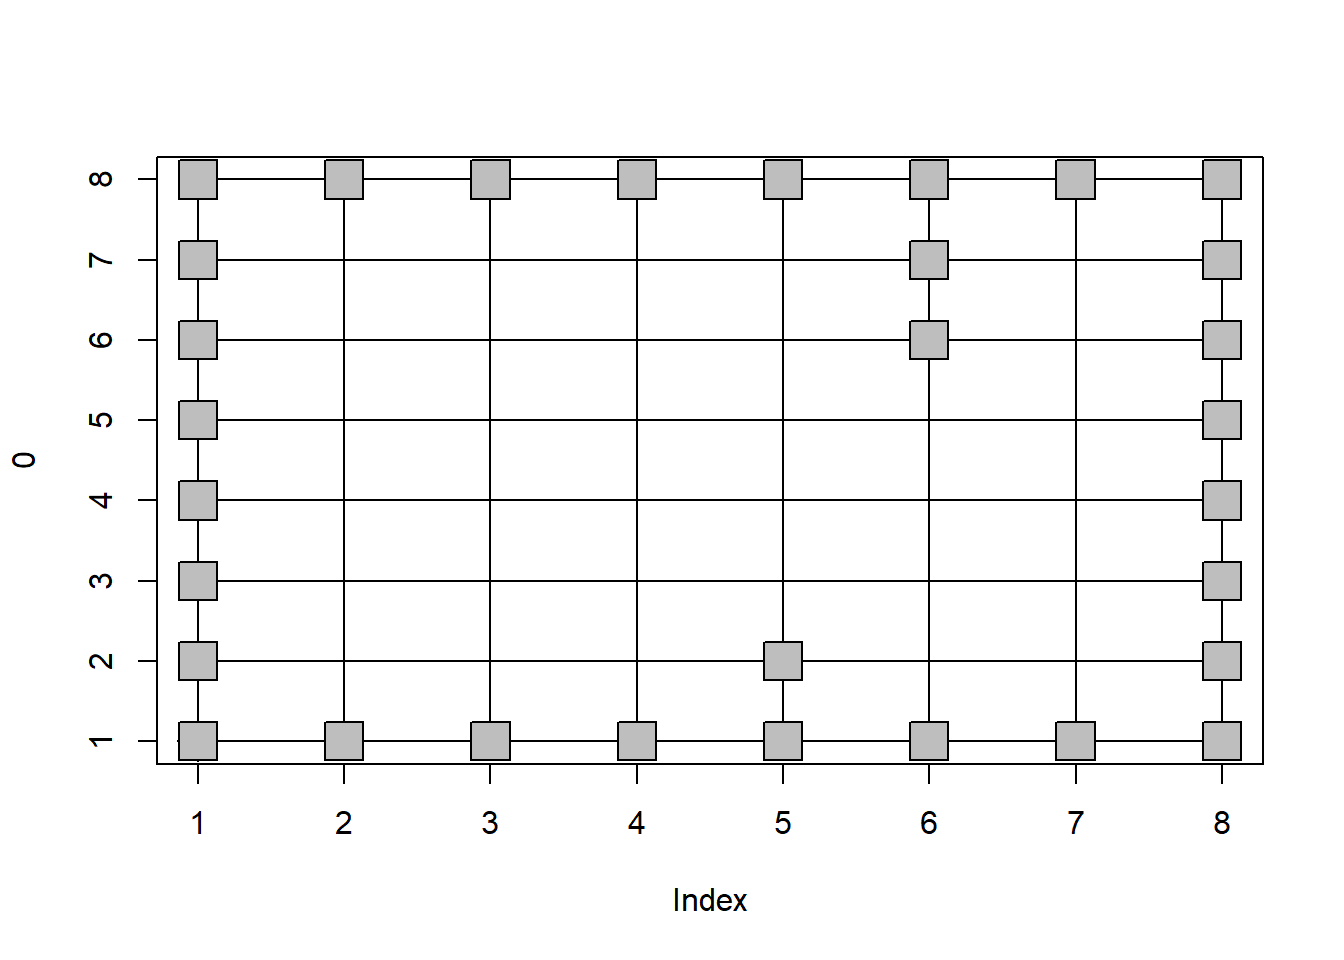
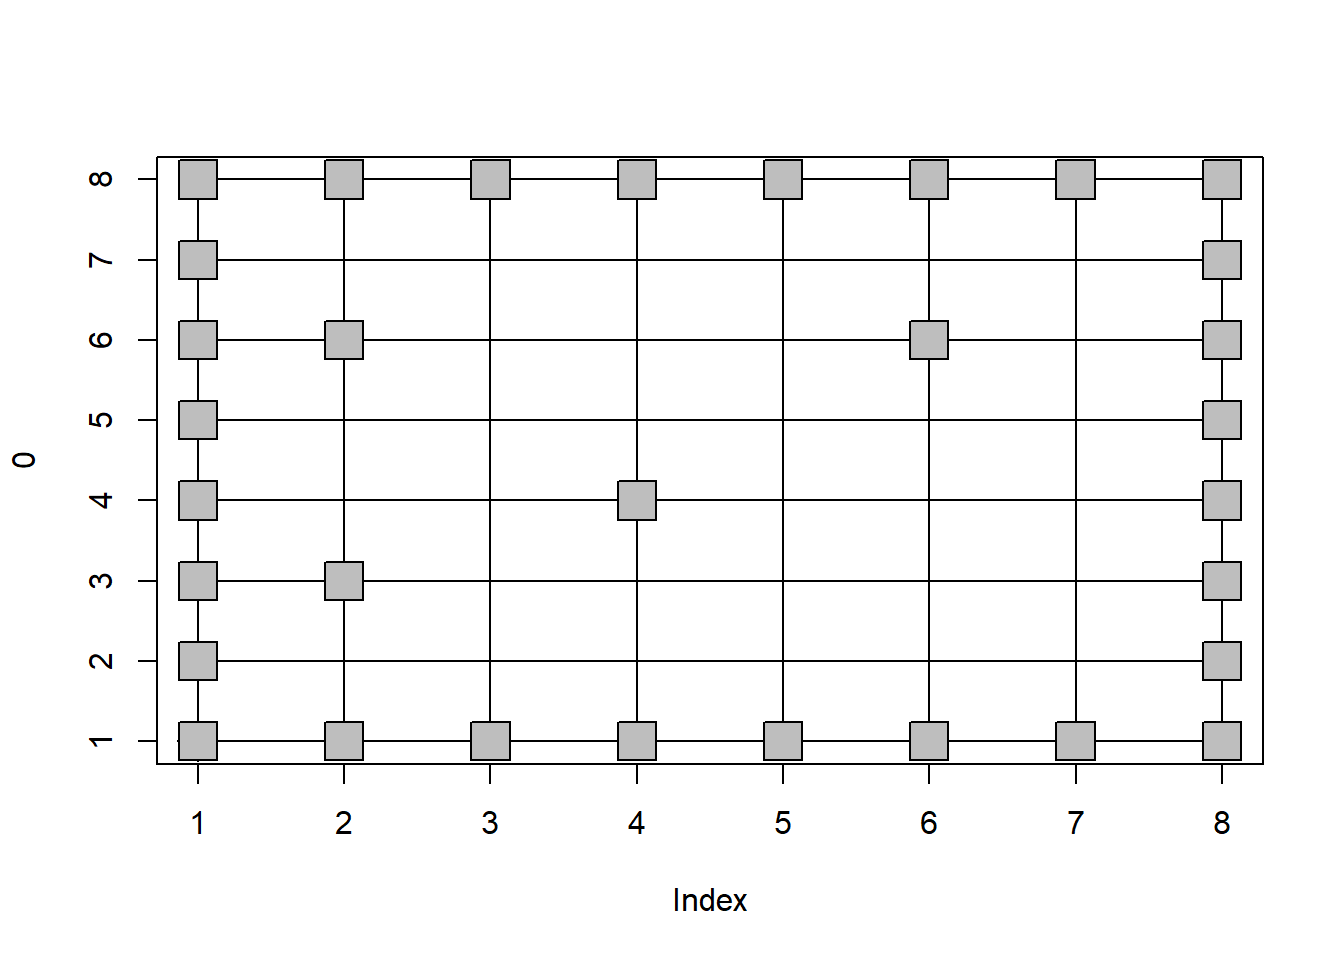
update

diff --git a/docs/lecture-07-ggplot-data-transformation.html b/docs/lecture-07-ggplot-data-transformation.html
@@ -5,11 +5,11 @@
 
   <meta charset="UTF-8">
   <meta http-equiv="X-UA-Compatible" content="IE=edge">
-  <title>[2019 UST 일반강의] R 프로그래밍과 데이터 분석</title>
+  <title>8 Lecture 07 - ggplot / data transformation | [2019 UST 일반강의] R 프로그래밍과 데이터 분석</title>
   <meta name="description" content="2019년 UST 강의 R 프로그래밍 웹사이트">
   <meta name="generator" content="bookdown  and GitBook 2.6.7">
 
-  <meta property="og:title" content="[2019 UST 일반강의] R 프로그래밍과 데이터 분석" />
+  <meta property="og:title" content="8 Lecture 07 - ggplot / data transformation | [2019 UST 일반강의] R 프로그래밍과 데이터 분석" />
   <meta property="og:type" content="book" />
   
   
@@ -17,7 +17,7 @@
   <meta name="github-repo" content="https://greendaygh.github.io/Rprog2019/" />
 
   <meta name="twitter:card" content="summary" />
-  <meta name="twitter:title" content="[2019 UST 일반강의] R 프로그래밍과 데이터 분석" />
+  <meta name="twitter:title" content="8 Lecture 07 - ggplot / data transformation | [2019 UST 일반강의] R 프로그래밍과 데이터 분석" />
   
   <meta name="twitter:description" content="2019년 UST 강의 R 프로그래밍 웹사이트" />
   
@@ -32,8 +32,8 @@
   <meta name="apple-mobile-web-app-status-bar-style" content="black">
   
   
+<link rel="prev" href="lecture-06-multiple-plate-reader-ggplot.html">
 
-<link rel="next" href="lecture-01-r-introduction.html">
 <script src="libs/jquery-2.2.3/jquery.min.js"></script>
 <link href="libs/gitbook-2.6.7/css/style.css" rel="stylesheet" />
 <link href="libs/gitbook-2.6.7/css/plugin-table.css" rel="stylesheet" />
@@ -165,84 +165,22 @@ code > span.in { color: #60a0b0; font-weight: bold; font-style: italic; } /* Inf
           <div class="page-inner">
 
             <section class="normal" id="section-">
-<div id="header">
-<h1 class="title">[2019 UST 일반강의] R 프로그래밍과 데이터 분석</h1>
-<p class="author"><em>Haseong Kim</em></p>
-<p class="date"><em>2019-04-17</em></p>
-</div>
-<div id="lecture-" class="section level1">
-<h1><span class="header-section-number">1</span> Lecture 개요</h1>
-<ul>
-<li>장소: 한국생명공학연구원 연구동 세미나실 1213호 (매주수요일 13:00~16:00)</li>
-<li>강사: 한국생명공학연구원 바이오합성연구센터 김하성</li>
-<li>연락처: 042-860-4372, <a href="mailto:haseong@kribb.re.kr">haseong@kribb.re.kr</a> (생명연 연구동 1143)</li>
-<li>homepage: <a href="https://greendaygh.github.io/Rprog2019/" class="uri">https://greendaygh.github.io/Rprog2019/</a> <a href="https://github.com/greendaygh/Rprog2019" class="uri">https://github.com/greendaygh/Rprog2019</a></li>
-</ul>
-<div id="goal--" class="section level2">
-<h2><span class="header-section-number">1.1</span> Goal 강의 목표</h2>
-<ul>
-<li>이공계열 대학원생이 통계 분석용 범용 프로그램 언어인 R의 사용법을 익히고 이를 이용한 프로그래밍 기술의 습득을 주요 목적으로 함. 생물 데이터 위주의 분석 예제를 통해 R의 활용 기술을 배움.</li>
-<li>이 강좌는 오프라인 강의를 기본으로 함. R 사용에 대한 기본 개념과 프로그래밍을 중심으로 필요시 기초 통계지식 강의. 실습 데이터로는 주로 생물데이터를 사용함. 모든 강의 시간 실습을 위한 개인 노트북 지참 필수. 강의 자료는 pdf로 제작하여 수업 진행과 관련된 정보와 함께 웹사이트를 통해 배포됨. 상황에 따라 강의 일정이 조정될 수 있음.</li>
-</ul>
-</div>
-<div id="references--" class="section level2">
-<h2><span class="header-section-number">1.2</span> References 참고 자료</h2>
-<ul>
-<li>R for Data Science (<a href="https://r4ds.had.co.nz" class="uri">https://r4ds.had.co.nz</a>, <a href="https://github.com/hadley" class="uri">https://github.com/hadley</a>)</li>
-<li>Using R for Introductory Statistics by John Verzani</li>
-<li>Free version of 1st Edition
-<ul>
-<li><a href="https://cran.r-project.org/doc/contrib/Verzani-SimpleR.pdf" class="uri">https://cran.r-project.org/doc/contrib/Verzani-SimpleR.pdf</a></li>
-<li><a href="http://cbb.sjtu.edu.cn/~mywu/bi217/usingR.pdf" class="uri">http://cbb.sjtu.edu.cn/~mywu/bi217/usingR.pdf</a></li>
-</ul></li>
-<li>Second edition
-<ul>
-<li><a href="https://www.crcpress.com/Using-R-for-Introductory-Statistics-Second-Edition/Verzani/p/book/9781466590731" class="uri">https://www.crcpress.com/Using-R-for-Introductory-Statistics-Second-Edition/Verzani/p/book/9781466590731</a></li>
-</ul></li>
-<li>Bioinformatics Data Skills by Vince Buffalo</li>
-<li><a href="https://resources.rstudio.com/" class="uri">https://resources.rstudio.com/</a></li>
-<li>일반통계학 (영지문화사, 김우철 외)</li>
-</ul>
-</div>
-<div id="evaluation---" class="section level2">
-<h2><span class="header-section-number">1.3</span> Evaluation 평가 세부 항목</h2>
-<ul>
-<li>출석 50% / 과제 50% / 수업참여 +alpha</li>
-</ul>
-</div>
-<div id="schedule--" class="section level2">
-<h2><span class="header-section-number">1.4</span> Schedule 강의 계획</h2>
-<ul>
-<li>Introduction and installation of R/Rstudio</li>
-<li>R language basics</li>
-<li>Data manipulation</li>
-<li>Visualizing data in R</li>
-<li>Shiny for interactive applications in R</li>
-<li>Workflows with R scripts</li>
-<li>Working with Range Data</li>
-<li>Sequence analysis</li>
-<li>Clustering and significance testing with genomic data</li>
-</ul>
-</div>
-<div id="lecture-note--" class="section level2">
-<h2><span class="header-section-number">1.5</span> Lecture note 강의 자료</h2>
-<ul>
-<li><p>1 (2019.03.06) - <a href="https://github.com/greendaygh/2019-R-programming/blob/master/01-Rprog.pdf">Introduction and installation of R/Rstudio, Basics of variables and functions</a></p></li>
-<li><p>2 (2019.03.13) - <a href="https://github.com/greendaygh/2019-R-programming/blob/master/02-Rprog.pdf">R Basics - Objects (vector, factor, matrix) and functions</a> 다음 시간 readxl, Biostrings 두 패키지 미리 설치한 후 강의 참석 부탁드립니다.</p></li>
-<li><p>3 (2019.03.20) - <a href="https://github.com/greendaygh/2019-R-programming/blob/master/03-Rprog.pdf">R Basics II - file I/O</a> 강의가 좀 빠르게 진행된 듯 합니다. 기본으로 제공되는 R 기능을 사용하기 보다는 함수나 프로그래밍 코딩 원리를 이해하기 위해 직접 함수를 만들어보는 연습을 하고 있으니 참고 하시고 다음 시간 전에 이번 시간 코드 복습하시고 오시면 도움이 되실 것 같습니다.</p></li>
-<li><p>4 (2019.03.27) - <a href="https://github.com/greendaygh/2019-R-programming/blob/master/04-Rprog.pdf">R programming example - Maze Robot</a></p></li>
-<li><p>5 (2019.04.03) - <a href="https://github.com/greendaygh/2019-R-programming/blob/master/05-Rprog.pdf">R programming example - Plate reader</a></p></li>
-</ul>
+<div id="lecture-07---ggplot-data-transformation" class="section level1">
+<h1><span class="header-section-number">8</span> Lecture 07 - ggplot / data transformation</h1>
+<p>실습용 엑셀파일 중 지난시간 오류가 있었던 design excel 파일 다시 다운로드 받아 주세요 <a href="https://github.com/greendaygh/Rprog2019/blob/master/exp_design2.xlsx">design excel file 2</a></p>
+<p>수업 전 다음 패키지 설치가 필요합니다. 인터넷 연결된 상태에서 R studio 콘솔창에 다음을 입력하세요</p>
+<div class="sourceCode"><pre class="sourceCode r"><code class="sourceCode r"><span class="kw">install.packages</span>(<span class="st">&quot;ggplot2&quot;</span>)
+<span class="kw">install.packages</span>(<span class="st">&quot;dplyr&quot;</span>)</code></pre></div>
+<p>강의 노트 (수업 후 업데이트 예정) <a href="https://github.com/greendaygh/2019-R-programming/blob/master/07-Rprog.pdf">Lecture note</a></p>
 
-</div>
 </div>
             </section>
 
           </div>
         </div>
       </div>
+<a href="lecture-06-multiple-plate-reader-ggplot.html" class="navigation navigation-prev navigation-unique" aria-label="Previous page"><i class="fa fa-angle-left"></i></a>
 
-<a href="lecture-01-r-introduction.html" class="navigation navigation-next navigation-unique" aria-label="Next page"><i class="fa fa-angle-right"></i></a>
     </div>
   </div>
 <script src="libs/gitbook-2.6.7/js/app.min.js"></script>

diff --git a/docs/lecture-04-maze-robot.html b/docs/lecture-04-maze-robot.html
@@ -147,6 +147,7 @@ code > span.in { color: #60a0b0; font-weight: bold; font-style: italic; } /* Inf
 <li class="chapter" data-level="7.3" data-path="lecture-06-multiple-plate-reader-ggplot.html"><a href="lecture-06-multiple-plate-reader-ggplot.html#read-data"><i class="fa fa-check"></i><b>7.3</b> Read data</a></li>
 <li class="chapter" data-level="7.4" data-path="lecture-06-multiple-plate-reader-ggplot.html"><a href="lecture-06-multiple-plate-reader-ggplot.html#ggplot--barplot-"><i class="fa fa-check"></i><b>7.4</b> ggplot 이용 barplot 그리기</a></li>
 </ul></li>
+<li class="chapter" data-level="8" data-path="lecture-07-ggplot-data-transformation.html"><a href="lecture-07-ggplot-data-transformation.html"><i class="fa fa-check"></i><b>8</b> Lecture 07 - ggplot / data transformation</a></li>
 </ul>
 
       </nav>
@@ -261,12 +262,12 @@ maze[,n] &lt;-<span class="st"> </span><span class="dv">1</span></code></pre></d
 maze</code></pre></div>
 <pre><code>##      [,1] [,2] [,3] [,4] [,5] [,6] [,7] [,8]
 ## [1,]    1    1    1    1    1    1    1    1
-## [2,]    1    0    0    0    1    0    0    1
-## [3,]    1    0    0    0    0    0    0    1
-## [4,]    1    0    0    1    1    0    0    1
-## [5,]    1    0    0    0    0    1    0    1
-## [6,]    1    0    0    0    0    0    1    1
-## [7,]    1    0    0    0    1    0    0    1
+## [2,]    1    0    0    0    0    0    0    1
+## [3,]    1    0    0    0    1    1    0    1
+## [4,]    1    0    0    0    0    0    1    1
+## [5,]    1    0    0    1    0    0    0    1
+## [6,]    1    0    1    0    0    0    0    1
+## [7,]    1    0    0    0    0    0    0    1
 ## [8,]    1    1    1    1    1    1    1    1</code></pre>
 <p>이제 위 코드를 활용해서 maze matrix 맵을 만드는 함수인 generate_maze 를 작성해 봅니다. 입력 파라메터는 n 하나로 가로 또는 세로의 (정사각형) 갯수를 의미합니다.</p>
 <div class="sourceCode"><pre class="sourceCode r"><code class="sourceCode r">generate_maze &lt;-<span class="st"> </span><span class="cf">function</span>(n){
@@ -284,11 +285,11 @@ mymaze &lt;-<span class="st"> </span><span class="kw">generate_maze</span>(<span
 mymaze</code></pre></div>
 <pre><code>##      [,1] [,2] [,3] [,4] [,5] [,6] [,7] [,8]
 ## [1,]    1    1    1    1    1    1    1    1
-## [2,]    1    0    0    0    0    0    0    1
+## [2,]    1    0    1    0    0    1    0    1
 ## [3,]    1    0    0    0    0    0    0    1
-## [4,]    1    0    0    0    0    0    0    1
-## [5,]    1    1    0    0    0    0    0    1
-## [6,]    1    0    0    0    0    1    1    1
+## [4,]    1    0    0    1    0    0    0    1
+## [5,]    1    0    0    0    0    0    0    1
+## [6,]    1    0    0    0    0    1    0    1
 ## [7,]    1    0    0    0    0    0    0    1
 ## [8,]    1    1    1    1    1    1    1    1</code></pre>
 </div>

diff --git a/docs/lecture-06-multiple-plate-reader-ggplot.html b/docs/lecture-06-multiple-plate-reader-ggplot.html
@@ -33,7 +33,7 @@
   
   
 <link rel="prev" href="lecture-05-multiple-plate-reader-file.html">
-
+<link rel="next" href="lecture-07-ggplot-data-transformation.html">
 <script src="libs/jquery-2.2.3/jquery.min.js"></script>
 <link href="libs/gitbook-2.6.7/css/style.css" rel="stylesheet" />
 <link href="libs/gitbook-2.6.7/css/plugin-table.css" rel="stylesheet" />
@@ -147,6 +147,7 @@ code > span.in { color: #60a0b0; font-weight: bold; font-style: italic; } /* Inf
 <li class="chapter" data-level="7.3" data-path="lecture-06-multiple-plate-reader-ggplot.html"><a href="lecture-06-multiple-plate-reader-ggplot.html#read-data"><i class="fa fa-check"></i><b>7.3</b> Read data</a></li>
 <li class="chapter" data-level="7.4" data-path="lecture-06-multiple-plate-reader-ggplot.html"><a href="lecture-06-multiple-plate-reader-ggplot.html#ggplot--barplot-"><i class="fa fa-check"></i><b>7.4</b> ggplot 이용 barplot 그리기</a></li>
 </ul></li>
+<li class="chapter" data-level="8" data-path="lecture-07-ggplot-data-transformation.html"><a href="lecture-07-ggplot-data-transformation.html"><i class="fa fa-check"></i><b>8</b> Lecture 07 - ggplot / data transformation</a></li>
 </ul>
 
       </nav>
@@ -442,8 +443,8 @@ mydata2<span class="op">$</span>concentration &lt;-<span class="st"> </span><spa
           </div>
         </div>
       </div>
-<a href="lecture-05-multiple-plate-reader-file.html" class="navigation navigation-prev navigation-unique" aria-label="Previous page"><i class="fa fa-angle-left"></i></a>
-
+<a href="lecture-05-multiple-plate-reader-file.html" class="navigation navigation-prev " aria-label="Previous page"><i class="fa fa-angle-left"></i></a>
+<a href="lecture-07-ggplot-data-transformation.html" class="navigation navigation-next " aria-label="Next page"><i class="fa fa-angle-right"></i></a>
     </div>
   </div>
 <script src="libs/gitbook-2.6.7/js/app.min.js"></script>

diff --git a/docs/lecture-03-r-basics-ii.html b/docs/lecture-03-r-basics-ii.html
@@ -147,6 +147,7 @@ code > span.in { color: #60a0b0; font-weight: bold; font-style: italic; } /* Inf
 <li class="chapter" data-level="7.3" data-path="lecture-06-multiple-plate-reader-ggplot.html"><a href="lecture-06-multiple-plate-reader-ggplot.html#read-data"><i class="fa fa-check"></i><b>7.3</b> Read data</a></li>
 <li class="chapter" data-level="7.4" data-path="lecture-06-multiple-plate-reader-ggplot.html"><a href="lecture-06-multiple-plate-reader-ggplot.html#ggplot--barplot-"><i class="fa fa-check"></i><b>7.4</b> ggplot 이용 barplot 그리기</a></li>
 </ul></li>
+<li class="chapter" data-level="8" data-path="lecture-07-ggplot-data-transformation.html"><a href="lecture-07-ggplot-data-transformation.html"><i class="fa fa-check"></i><b>8</b> Lecture 07 - ggplot / data transformation</a></li>
 </ul>
 
       </nav>
@@ -319,9 +320,9 @@ mysd &lt;-<span class="st"> </span><span class="cf">function</span>(x){
 
 x &lt;-<span class="st"> </span><span class="kw">sample</span>(<span class="dv">1</span><span class="op">:</span><span class="dv">100</span>, <span class="dv">10</span>)
 <span class="kw">mysd</span>(x)</code></pre></div>
-<pre><code>## [1] 29.72765</code></pre>
+<pre><code>## [1] 27.67289</code></pre>
 <div class="sourceCode"><pre class="sourceCode r"><code class="sourceCode r"><span class="kw">sd</span>(x)</code></pre></div>
-<pre><code>## [1] 29.72765</code></pre>
+<pre><code>## [1] 27.67289</code></pre>
 </div>
 <div id="exercise-3-3-barplot-with-error-bars" class="section level2">
 <h2><span class="header-section-number">4.7</span> Exercise 3-3 barplot with error bars</h2>

diff --git a/docs/lecture-01-r-introduction.html b/docs/lecture-01-r-introduction.html
@@ -147,6 +147,7 @@ code > span.in { color: #60a0b0; font-weight: bold; font-style: italic; } /* Inf
 <li class="chapter" data-level="7.3" data-path="lecture-06-multiple-plate-reader-ggplot.html"><a href="lecture-06-multiple-plate-reader-ggplot.html#read-data"><i class="fa fa-check"></i><b>7.3</b> Read data</a></li>
 <li class="chapter" data-level="7.4" data-path="lecture-06-multiple-plate-reader-ggplot.html"><a href="lecture-06-multiple-plate-reader-ggplot.html#ggplot--barplot-"><i class="fa fa-check"></i><b>7.4</b> ggplot 이용 barplot 그리기</a></li>
 </ul></li>
+<li class="chapter" data-level="8" data-path="lecture-07-ggplot-data-transformation.html"><a href="lecture-07-ggplot-data-transformation.html"><i class="fa fa-check"></i><b>8</b> Lecture 07 - ggplot / data transformation</a></li>
 </ul>
 
       </nav>

diff --git a/docs/lecture-02-r-basics-i.html b/docs/lecture-02-r-basics-i.html
@@ -147,6 +147,7 @@ code > span.in { color: #60a0b0; font-weight: bold; font-style: italic; } /* Inf
 <li class="chapter" data-level="7.3" data-path="lecture-06-multiple-plate-reader-ggplot.html"><a href="lecture-06-multiple-plate-reader-ggplot.html#read-data"><i class="fa fa-check"></i><b>7.3</b> Read data</a></li>
 <li class="chapter" data-level="7.4" data-path="lecture-06-multiple-plate-reader-ggplot.html"><a href="lecture-06-multiple-plate-reader-ggplot.html#ggplot--barplot-"><i class="fa fa-check"></i><b>7.4</b> ggplot 이용 barplot 그리기</a></li>
 </ul></li>
+<li class="chapter" data-level="8" data-path="lecture-07-ggplot-data-transformation.html"><a href="lecture-07-ggplot-data-transformation.html"><i class="fa fa-check"></i><b>8</b> Lecture 07 - ggplot / data transformation</a></li>
 </ul>
 
       </nav>

diff --git a/docs/lecture-05-multiple-plate-reader-file.html b/docs/lecture-05-multiple-plate-reader-file.html
@@ -147,6 +147,7 @@ code > span.in { color: #60a0b0; font-weight: bold; font-style: italic; } /* Inf
 <li class="chapter" data-level="7.3" data-path="lecture-06-multiple-plate-reader-ggplot.html"><a href="lecture-06-multiple-plate-reader-ggplot.html#read-data"><i class="fa fa-check"></i><b>7.3</b> Read data</a></li>
 <li class="chapter" data-level="7.4" data-path="lecture-06-multiple-plate-reader-ggplot.html"><a href="lecture-06-multiple-plate-reader-ggplot.html#ggplot--barplot-"><i class="fa fa-check"></i><b>7.4</b> ggplot 이용 barplot 그리기</a></li>
 </ul></li>
+<li class="chapter" data-level="8" data-path="lecture-07-ggplot-data-transformation.html"><a href="lecture-07-ggplot-data-transformation.html"><i class="fa fa-check"></i><b>8</b> Lecture 07 - ggplot / data transformation</a></li>
 </ul>
 
       </nav>
